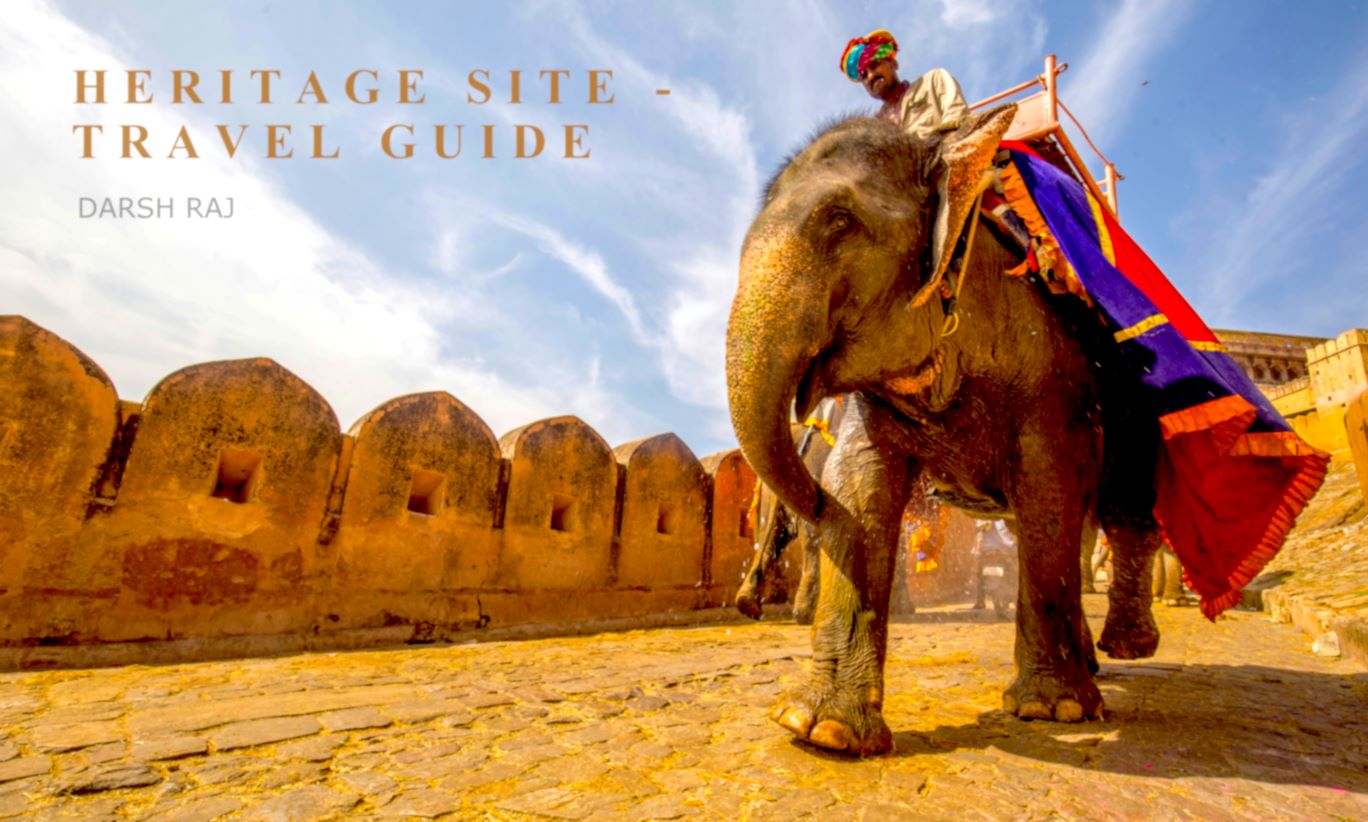
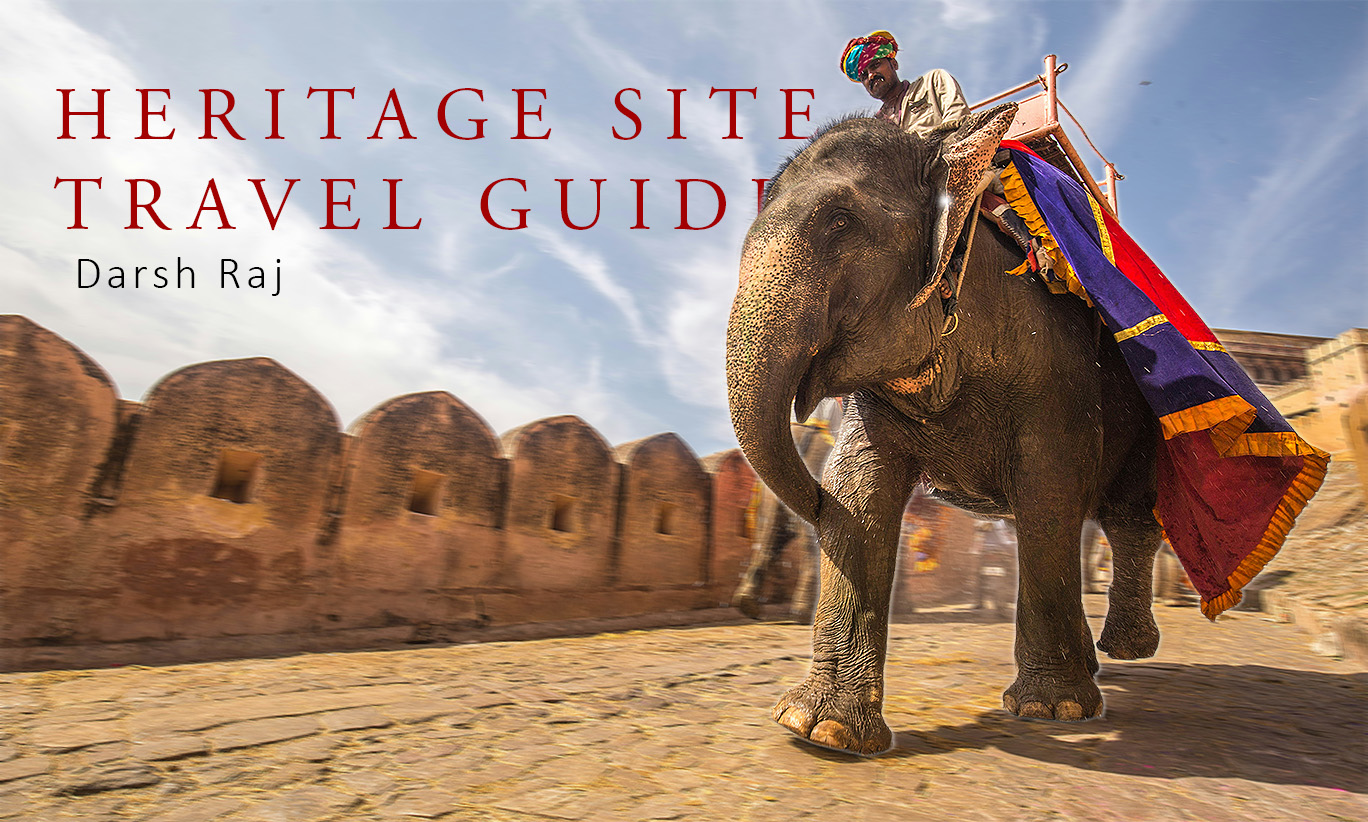
04/03/25
Edited Picture, started work on deletion program, and buttons still need work. Idk/

diff --git a/TEMP/Assets/Data.py b/TEMP/Assets/Data.py
@@ -1,22 +1,1 @@
-Data = {
-    1: ['assets/images/agra_fort.jpg', 'consolas', 'THE AGRA FORT', 'https://en.wikipedia.org/wiki/Agra_Fort', 'UTTAR PRADESH', 'AGRA', '07/02/2026', 1573, 'AGRA AIRPORT', 'https://www.aai.aero/en/node/2901', 'AGRA FORT RAILWAY', 'https://indianrailways.gov.in', 'ALL-DAY', 'THE IMPERIAL, ITC MUGHAL, COURTYARD BY MARRIOTT', 'https://www.tripadvisor.in', 10500, 'A 16th-century Mughal imperial fortress in Agra. It was the main residence of the emperors of the Mughal Dynasty until 1638.', 'Intense Crowds, Touts, Noise, Scams.'],
-    2: ['assets/images/taj_mahal.jpg', 'consolas', 'THE TAJ MAHAL', 'https://en.wikipedia.org/wiki/Taj_Mahal', 'UTTAR PRADESH', 'AGRA', '07/02/2026', 1632, 'AGRA AIRPORT', 'https://www.aai.aero', 'AGRA CANTT', 'https://indianrailways.gov.in', '6AM-7PM', 'THE OBEROI AMARVILAS, TAJ HOTEL', 'https://www.tajhotels.com', 15000, 'An ivory-white marble mausoleum on the right bank of the river Yamuna. Built by Shah Jahan for his wife Mumtaz Mahal.', 'Heavy security check, strictly no drones, crowds.'],
-    3: ['assets/images/lotus_temple.jpg', 'consolas', 'THE LOTUS TEMPLE', 'https://en.wikipedia.org/wiki/Lotus_Temple', 'DELHI', 'NEW DELHI', '07/02/2026', 1986, 'IGIA DELHI', 'https://www.newdelhiairport.in', 'KALKAJI MANDIR METRO', 'https://www.delhimetrorail.com', '9AM-5PM', 'EROS HOTEL, THE SURYAA', 'https://www.ihg.com', 4500, 'A Bahai House of Worship notable for its flowerlike shape. It has become a prominent attraction in the city.', 'Silence must be maintained, no photography inside.'],
-    4: ['assets/images/donkey.jpg', 'consolas', 'THE WILD ASS SANCTUARY', 'https://en.wikipedia.org/wiki/Indian_Wild_Ass_Sanctuary', 'GUJARAT', 'LITTLE RANN OF KUTCH', '07/02/2026', 1972, 'AHMEDABAD AIRPORT', 'https://www.aai.aero', 'DHRANGADHRA RAILWAY', 'https://indianrailways.gov.in', '6AM-6PM', 'RANN RIDERS, DESERT COURTYARD', 'https://www.rannriders.com', 8500, 'The largest wildlife sanctuary in India, home to the endangered Indian Wild Ass.', 'Extreme heat in summer, carry plenty of water.'],
-    5: ['assets/images/mtn_palace.jpg', 'consolas', 'THE MATTANCHERRY PALACE', 'https://en.wikipedia.org/wiki/Mattancherry_Palace', 'KERALA', 'KOCHI', '07/02/2026', 1545, 'COCHIN INTERNATIONAL', 'https://cial.aero', 'ERNAKULAM JUNCTION', 'https://indianrailways.gov.in', '10AM-5PM', 'GRAND HYATT, TAJ MALABAR', 'https://www.tajhotels.com', 6000, 'A Portuguese palace popularly known as the Dutch Palace, featuring Kerala murals depicting Hindu temple art.', 'Closed on Fridays, no footwear inside galleries.'],
-    6: ['assets/images/corbusier.jpg', 'consolas', 'LE CORBUSIER ARCHITECTURAL WORK', 'https://en.wikipedia.org/wiki/The_Architectural_Work_of_Le_Corbusier', 'CHANDIGARH', 'CHANDIGARH', '07/02/2026', 1950, 'CHANDIGARH AIRPORT', 'https://www.aai.aero', 'CHANDIGARH JUNCTION', 'https://indianrailways.gov.in', '9AM-5PM', 'JW MARRIOTT, TAJ CHANDIGARH', 'https://www.marriott.com', 9000, 'The Capitol Complex in Chandigarh is a UNESCO site representing the modern movement in architecture.', 'Prior permission needed for the Capitol Complex.'],
-    7: ['assets/images/himalayan_np.jpg', 'consolas', 'THE GREAT HIMALAYAN NATIONAL PARK', 'https://en.wikipedia.org/wiki/Great_Himalayan_National_Park', 'HIMACHAL PRADESH', 'KULLU', '07/02/2026', 1984, 'KULLU MANALI AIRPORT', 'https://www.aai.aero', 'JOGINDER NAGAR', 'https://indianrailways.gov.in', 'ALL-DAY', 'THE RAJU COTTAGE, FOREST GUEST HOUSE', 'https://www.himachaltourism.gov.in', 12000, 'A high altitude park with diverse flora and fauna, including the elusive Snow Leopard.', 'Steep treks, unpredictable weather, permit required.'],
-    8: ['assets/images/wstrn_g.jpg', 'consolas', 'THE WESTERN GHATS', 'https://en.wikipedia.org/wiki/Western_Ghats', 'MAHARASHTRA/KARNATAKA/KERALA', 'MULTIPLE', '07/02/2026', 2012, 'MUMBAI/BANGALORE AIRPORT', 'https://www.aai.aero', 'MULTIPLE', 'https://indianrailways.gov.in', 'ALL-DAY', 'VIVANTA BY TAJ, STERLING RESORTS', 'https://www.sterlingholidays.com', 18000, 'One of the worlds ten hottest biodiversity hotspots, older than the Himalayas.', 'Leeches during monsoon, dense forests, stay on trails.'],
-    9: ['assets/images/red_fort.jpg', 'consolas', 'THE RED FORT', 'https://en.wikipedia.org/wiki/Red_Fort', 'DELHI', 'OLD DELHI', '07/02/2026', 1639, 'IGIA DELHI', 'https://www.newdelhiairport.in', 'OLD DELHI RAILWAY', 'https://indianrailways.gov.in', '9:30AM-4:30PM', 'THE MAIDENS HOTEL, ITC MAURYA', 'https://www.oberoihotels.com', 8000, 'A historic fort that served as the main residence of Mughal Emperors for nearly 200 years.', 'Closed on Mondays, extremely crowded, light show at night.'],
-    10: ['assets/images/rock_shelter.jpg', 'consolas', 'THE ROCK SHELTERS OF BHIMBETKA', 'https://en.wikipedia.org/wiki/Rock_Shelters_of_Bhimbetka', 'MADHYA PRADESH', 'RAISEN', '07/02/2026', 2003, 'BHOPAL AIRPORT', 'https://www.aai.aero', 'BHOPAL JUNCTION', 'https://indianrailways.gov.in', '7AM-6PM', 'JEHAN NUMA PALACE, COURTYARD BY MARRIOTT', 'https://www.marriott.com', 7500, 'Archaeological site exhibiting the earliest traces of human life on the Indian subcontinent.', 'Remote area, hire a guide for historical context.'],
-    11: ['assets/images/train.jpg', 'consolas', 'THE MOUNTAIN RAILWAYS OF INDIA', 'https://en.wikipedia.org/wiki/Mountain_Railways_of_India', 'WB/TN/HP', 'MULTIPLE', '07/02/2026', 1999, 'BAGDOGRA/COIMBATORE', 'https://www.aai.aero', 'DARJEELING/OOTY/KALKA', 'https://indianrailways.gov.in', 'SCHEDULE-BASED', 'WINDAMERE HOTEL, SAVOY OOTY', 'https://www.tajhotels.com', 14000, 'Includes Darjeeling Himalayan Railway, Nilgiri Mountain Railway, and Kalka-Shimla Railway.', 'Book tickets months in advance, landslides in monsoon.'],
-    12: ['assets/images/qutb_minar.jpg', 'consolas', 'THE QUTB MINAR', 'https://en.wikipedia.org/wiki/Qutb_Minar', 'DELHI', 'MEHRAULI', '07/02/2026', 1192, 'IGIA DELHI', 'https://www.newdelhiairport.in', 'QUTUB MINAR METRO', 'https://www.delhimetrorail.com', '7AM-9PM', 'THE LODHI, HILTON GARDEN INN', 'https://www.hilton.com', 5000, 'A 73-metre tall tapering tower and a UNESCO World Heritage Site.', 'No climbing the tower, high summer heat.'],
-    13: ['assets/images/sundarbans.jpg', 'consolas', 'THE SUNDARBANS NATIONAL PARK', 'https://en.wikipedia.org/wiki/Sundarbans_National_Park', 'WEST BENGAL', '24 PARGANAS', '07/02/2026', 1987, 'KOLKATA AIRPORT', 'https://www.aai.aero', 'CANNING RAILWAY', 'https://indianrailways.gov.in', '8AM-6PM', 'SUNDARBAN TIGER CAMP', 'https://www.sundarbantigercamp.com', 16000, 'World largest mangrove forest and home to the Royal Bengal Tiger.', 'Boat travel only, watch out for crocodiles and tigers.'],
-    14: ['assets/images/hampi.jpg', 'consolas', 'THE HAMPI MONUMENTS', 'https://en.wikipedia.org/wiki/Hampi', 'KARNATAKA', 'HAMPI', '07/02/2026', 1986, 'HUBLI AIRPORT', 'https://www.aai.aero', 'HOSAPETE JUNCTION', 'https://indianrailways.gov.in', '6AM-6PM', 'EVOLVE BACK, HYATT PLACE', 'https://www.evolveback.com', 11000, 'Ruins of the Vijayanagara Empire capital, featuring stunning Dravidian temples.', 'Vast area, hire a bicycle, dress conservatively.'],
-    15: ['assets/images/mbpuram.jpg', 'consolas', 'THE MAHABALIPURAM MONUMENTS', 'https://en.wikipedia.org/wiki/Mahabalipuram', 'TAMIL NADU', 'CHENGALPATTU', '07/02/2026', 1984, 'CHENNAI INTERNATIONAL', 'https://www.aai.aero', 'CHENGALPATTU JUNCTION', 'https://indianrailways.gov.in', '6AM-6PM', 'RADISSON BLU RESORT, TAJ FISHERMANS COVE', 'https://www.tajhotels.com', 9500, 'A collection of 7th- and 8th-century religious monuments including the Shore Temple.', 'Humid coastal weather, local monkeys can be aggressive.'],
-    16: ['assets/images/sun_temple.jpg', 'consolas', 'THE SUN TEMPLE KONARK', 'https://en.wikipedia.org/wiki/Konark_Sun_Temple', 'ODISHA', 'PURI', '07/02/2026', 1984, 'BHUBANESWAR AIRPORT', 'https://www.aai.aero', 'PURI RAILWAY', 'https://indianrailways.gov.in', '6AM-8PM', 'MAYFAIR WAVES, THE CHARIOT', 'https://www.mayfairhotels.com', 8000, 'A 13th-century Sun Temple shaped like a giant chariot with carved stone wheels.', 'Intense sun, hire a government approved guide.'],
-    17: ['assets/images/ellora.jpg', 'consolas', 'THE ELLORA CAVES', 'https://en.wikipedia.org/wiki/Ellora_Caves', 'MAHARASHTRA', 'AURANGABAD', '07/02/2026', 1983, 'AURANGABAD AIRPORT', 'https://www.aai.aero', 'AURANGABAD RAILWAY', 'https://indianrailways.gov.in', '6AM-6PM', 'VIVANTA, WELCOMHOTEL RAMA INTERNATIONAL', 'https://www.itchotels.com', 9000, 'One of the largest rock-cut monastery-temple cave complexes in the world.', 'Closed on Tuesdays, lots of walking and steps.'],
-    18: ['assets/images/ajanta.jpg', 'consolas', 'THE AJANTA CAVES', 'https://en.wikipedia.org/wiki/Ajanta_Caves', 'MAHARASHTRA', 'AURANGABAD', '07/02/2026', 1983, 'AURANGABAD AIRPORT', 'https://www.aai.aero', 'JALGAON JUNCTION', 'https://indianrailways.gov.in', '9AM-5PM', 'VIVANTA, HOTEL AJANTA AMBASSADOR', 'https://www.tajhotels.com', 9000, 'Buddhist cave monuments dating from the 2nd century BCE to 480 CE.', 'Closed on Mondays, no flash photography.'],
-    19: ['assets/images/gold.jpg', 'consolas', 'THE GOLDEN TEMPLE', 'https://en.wikipedia.org/wiki/Golden_Temple', 'PUNJAB', 'AMRITSAR', '07/02/2026', 1577, 'AMRITSAR AIRPORT', 'https://www.aai.aero', 'AMRITSAR JUNCTION', 'https://indianrailways.gov.in', 'ALL-DAY', 'HYATT REGENCY, TAJ SWARNA', 'https://www.tajhotels.com', 7000, 'The preeminent spiritual site of Sikhism, also known as Sri Harmandir Sahib.', 'Cover your head, remove shoes, photography limited.'],
-    20: ['assets/images/goa.jpg', 'consolas', 'THE CHURCHES AND CONVENTS OF GOA', 'https://en.wikipedia.org/wiki/Churches_and_Convents_of_Goa', 'GOA', 'OLD GOA', '07/02/2026', 1986, 'GOA INTERNATIONAL', 'https://www.aai.aero', 'MADGAON JUNCTION', 'https://indianrailways.gov.in', '7:30AM-6:30PM', 'W GOA, TAJ EXOTICA', 'https://www.marriott.com', 13000, 'A set of religious monuments in Old Goa, the former capital of Portuguese India.', 'Dress modestly for active churches, parking can be far.']
-}
+Data = {1: ['assets/images/agra_fort.jpg', 'consolas', 'THE AGRA FORT', 'https://en.wikipedia.org/wiki/Agra_Fort', 'UTTAR PRADESH', 'AGRA', '07/02/2026', 1573, 'AGRA AIRPORT', 'https://www.aai.aero/en/node/2901', 'AGRA FORT RAILWAY', 'https://indianrailways.gov.in', 'ALL-DAY', 'THE IMPERIAL, ITC MUGHAL, COURTYARD BY MARRIOTT', 'https://www.tripadvisor.in', 10500, 'A 16th-century Mughal imperial fortress in Agra. It was the main residence of the emperors of the Mughal Dynasty until 1638.', 'Intense Crowds, Touts, Noise, Scams.'], 2: ['assets/images/taj_mahal.jpg', 'consolas', 'THE TAJ MAHAL', 'https://en.wikipedia.org/wiki/Taj_Mahal', 'UTTAR PRADESH', 'AGRA', '07/02/2026', 1632, 'AGRA AIRPORT', 'https://www.aai.aero', 'AGRA CANTT', 'https://indianrailways.gov.in', '6AM-7PM', 'THE OBEROI AMARVILAS, TAJ HOTEL', 'https://www.tajhotels.com', 15000, 'An ivory-white marble mausoleum on the right bank of the river Yamuna. Built by Shah Jahan for his wife Mumtaz Mahal.', 'Heavy security check, strictly no drones, crowds.'], 3: ['assets/images/lotus_temple.jpg', 'consolas', 'THE LOTUS TEMPLE', 'https://en.wikipedia.org/wiki/Lotus_Temple', 'DELHI', 'NEW DELHI', '07/02/2026', 1986, 'IGIA DELHI', 'https://www.newdelhiairport.in', 'KALKAJI MANDIR METRO', 'https://www.delhimetrorail.com', '9AM-5PM', 'EROS HOTEL, THE SURYAA', 'https://www.ihg.com', 4500, 'A Bahai House of Worship notable for its flowerlike shape. It has become a prominent attraction in the city.', 'Silence must be maintained, no photography inside.'], 4: ['assets/images/donkey.jpg', 'consolas', 'THE WILD ASS SANCTUARY', 'https://en.wikipedia.org/wiki/Indian_Wild_Ass_Sanctuary', 'GUJARAT', 'LITTLE RANN OF KUTCH', '07/02/2026', 1972, 'AHMEDABAD AIRPORT', 'https://www.aai.aero', 'DHRANGADHRA RAILWAY', 'https://indianrailways.gov.in', '6AM-6PM', 'RANN RIDERS, DESERT COURTYARD', 'https://www.rannriders.com', 8500, 'The largest wildlife sanctuary in India, home to the endangered Indian Wild Ass.', 'Extreme heat in summer, carry plenty of water.'], 5: ['assets/images/mtn_palace.jpg', 'consolas', 'THE MATTANCHERRY PALACE', 'https://en.wikipedia.org/wiki/Mattancherry_Palace', 'KERALA', 'KOCHI', '07/02/2026', 1545, 'COCHIN INTERNATIONAL', 'https://cial.aero', 'ERNAKULAM JUNCTION', 'https://indianrailways.gov.in', '10AM-5PM', 'GRAND HYATT, TAJ MALABAR', 'https://www.tajhotels.com', 6000, 'A Portuguese palace popularly known as the Dutch Palace, featuring Kerala murals depicting Hindu temple art.', 'Closed on Fridays, no footwear inside galleries.'], 6: ['assets/images/corbusier.jpg', 'consolas', 'LE CORBUSIER ARCHITECTURAL WORK', 'https://en.wikipedia.org/wiki/The_Architectural_Work_of_Le_Corbusier', 'CHANDIGARH', 'CHANDIGARH', '07/02/2026', 1950, 'CHANDIGARH AIRPORT', 'https://www.aai.aero', 'CHANDIGARH JUNCTION', 'https://indianrailways.gov.in', '9AM-5PM', 'JW MARRIOTT, TAJ CHANDIGARH', 'https://www.marriott.com', 9000, 'The Capitol Complex in Chandigarh is a UNESCO site representing the modern movement in architecture.', 'Prior permission needed for the Capitol Complex.'], 7: ['assets/images/himalayan_np.jpg', 'consolas', 'THE GREAT HIMALAYAN NATIONAL PARK', 'https://en.wikipedia.org/wiki/Great_Himalayan_National_Park', 'HIMACHAL PRADESH', 'KULLU', '07/02/2026', 1984, 'KULLU MANALI AIRPORT', 'https://www.aai.aero', 'JOGINDER NAGAR', 'https://indianrailways.gov.in', 'ALL-DAY', 'THE RAJU COTTAGE, FOREST GUEST HOUSE', 'https://www.himachaltourism.gov.in', 12000, 'A high altitude park with diverse flora and fauna, including the elusive Snow Leopard.', 'Steep treks, unpredictable weather, permit required.'], 8: ['assets/images/wstrn_g.jpg', 'consolas', 'THE WESTERN GHATS', 'https://en.wikipedia.org/wiki/Western_Ghats', 'MAHARASHTRA/KARNATAKA/KERALA', 'MULTIPLE', '07/02/2026', 2012, 'MUMBAI/BANGALORE AIRPORT', 'https://www.aai.aero', 'MULTIPLE', 'https://indianrailways.gov.in', 'ALL-DAY', 'VIVANTA BY TAJ, STERLING RESORTS', 'https://www.sterlingholidays.com', 18000, 'One of the worlds ten hottest biodiversity hotspots, older than the Himalayas.', 'Leeches during monsoon, dense forests, stay on trails.'], 9: ['assets/images/red_fort.jpg', 'consolas', 'THE RED FORT', 'https://en.wikipedia.org/wiki/Red_Fort', 'DELHI', 'OLD DELHI', '07/02/2026', 1639, 'IGIA DELHI', 'https://www.newdelhiairport.in', 'OLD DELHI RAILWAY', 'https://indianrailways.gov.in', '9:30AM-4:30PM', 'THE MAIDENS HOTEL, ITC MAURYA', 'https://www.oberoihotels.com', 8000, 'A historic fort that served as the main residence of Mughal Emperors for nearly 200 years.', 'Closed on Mondays, extremely crowded, light show at night.'], 10: ['assets/images/rock_shelter.jpg', 'consolas', 'THE ROCK SHELTERS OF BHIMBETKA', 'https://en.wikipedia.org/wiki/Rock_Shelters_of_Bhimbetka', 'MADHYA PRADESH', 'RAISEN', '07/02/2026', 2003, 'BHOPAL AIRPORT', 'https://www.aai.aero', 'BHOPAL JUNCTION', 'https://indianrailways.gov.in', '7AM-6PM', 'JEHAN NUMA PALACE, COURTYARD BY MARRIOTT', 'https://www.marriott.com', 7500, 'Archaeological site exhibiting the earliest traces of human life on the Indian subcontinent.', 'Remote area, hire a guide for historical context.'], 11: ['assets/images/train.jpg', 'consolas', 'THE MOUNTAIN RAILWAYS OF INDIA', 'https://en.wikipedia.org/wiki/Mountain_Railways_of_India', 'WB/TN/HP', 'MULTIPLE', '07/02/2026', 1999, 'BAGDOGRA/COIMBATORE', 'https://www.aai.aero', 'DARJEELING/OOTY/KALKA', 'https://indianrailways.gov.in', 'SCHEDULE-BASED', 'WINDAMERE HOTEL, SAVOY OOTY', 'https://www.tajhotels.com', 14000, 'Includes Darjeeling Himalayan Railway, Nilgiri Mountain Railway, and Kalka-Shimla Railway.', 'Book tickets months in advance, landslides in monsoon.'], 12: ['assets/images/qutb_minar.jpg', 'consolas', 'THE QUTB MINAR', 'https://en.wikipedia.org/wiki/Qutb_Minar', 'DELHI', 'MEHRAULI', '07/02/2026', 1192, 'IGIA DELHI', 'https://www.newdelhiairport.in', 'QUTUB MINAR METRO', 'https://www.delhimetrorail.com', '7AM-9PM', 'THE LODHI, HILTON GARDEN INN', 'https://www.hilton.com', 5000, 'A 73-metre tall tapering tower and a UNESCO World Heritage Site.', 'No climbing the tower, high summer heat.'], 13: ['assets/images/sundarbans.jpg', 'consolas', 'THE SUNDARBANS NATIONAL PARK', 'https://en.wikipedia.org/wiki/Sundarbans_National_Park', 'WEST BENGAL', '24 PARGANAS', '07/02/2026', 1987, 'KOLKATA AIRPORT', 'https://www.aai.aero', 'CANNING RAILWAY', 'https://indianrailways.gov.in', '8AM-6PM', 'SUNDARBAN TIGER CAMP', 'https://www.sundarbantigercamp.com', 16000, 'World largest mangrove forest and home to the Royal Bengal Tiger.', 'Boat travel only, watch out for crocodiles and tigers.'], 14: ['assets/images/hampi.jpg', 'consolas', 'THE HAMPI MONUMENTS', 'https://en.wikipedia.org/wiki/Hampi', 'KARNATAKA', 'HAMPI', '07/02/2026', 1986, 'HUBLI AIRPORT', 'https://www.aai.aero', 'HOSAPETE JUNCTION', 'https://indianrailways.gov.in', '6AM-6PM', 'EVOLVE BACK, HYATT PLACE', 'https://www.evolveback.com', 11000, 'Ruins of the Vijayanagara Empire capital, featuring stunning Dravidian temples.', 'Vast area, hire a bicycle, dress conservatively.'], 15: ['assets/images/mbpuram.jpg', 'consolas', 'THE MAHABALIPURAM MONUMENTS', 'https://en.wikipedia.org/wiki/Mahabalipuram', 'TAMIL NADU', 'CHENGALPATTU', '07/02/2026', 1984, 'CHENNAI INTERNATIONAL', 'https://www.aai.aero', 'CHENGALPATTU JUNCTION', 'https://indianrailways.gov.in', '6AM-6PM', 'RADISSON BLU RESORT, TAJ FISHERMANS COVE', 'https://www.tajhotels.com', 9500, 'A collection of 7th- and 8th-century religious monuments including the Shore Temple.', 'Humid coastal weather, local monkeys can be aggressive.'], 16: ['assets/images/sun_temple.jpg', 'consolas', 'THE SUN TEMPLE KONARK', 'https://en.wikipedia.org/wiki/Konark_Sun_Temple', 'ODISHA', 'PURI', '07/02/2026', 1984, 'BHUBANESWAR AIRPORT', 'https://www.aai.aero', 'PURI RAILWAY', 'https://indianrailways.gov.in', '6AM-8PM', 'MAYFAIR WAVES, THE CHARIOT', 'https://www.mayfairhotels.com', 8000, 'A 13th-century Sun Temple shaped like a giant chariot with carved stone wheels.', 'Intense sun, hire a government approved guide.'], 17: ['assets/images/ellora.jpg', 'consolas', 'THE ELLORA CAVES', 'https://en.wikipedia.org/wiki/Ellora_Caves', 'MAHARASHTRA', 'AURANGABAD', '07/02/2026', 1983, 'AURANGABAD AIRPORT', 'https://www.aai.aero', 'AURANGABAD RAILWAY', 'https://indianrailways.gov.in', '6AM-6PM', 'VIVANTA, WELCOMHOTEL RAMA INTERNATIONAL', 'https://www.itchotels.com', 9000, 'One of the largest rock-cut monastery-temple cave complexes in the world.', 'Closed on Tuesdays, lots of walking and steps.'], 18: ['assets/images/ajanta.jpg', 'consolas', 'THE AJANTA CAVES', 'https://en.wikipedia.org/wiki/Ajanta_Caves', 'MAHARASHTRA', 'AURANGABAD', '07/02/2026', 1983, 'AURANGABAD AIRPORT', 'https://www.aai.aero', 'JALGAON JUNCTION', 'https://indianrailways.gov.in', '9AM-5PM', 'VIVANTA, HOTEL AJANTA AMBASSADOR', 'https://www.tajhotels.com', 9000, 'Buddhist cave monuments dating from the 2nd century BCE to 480 CE.', 'Closed on Mondays, no flash photography.'], 19: ['assets/images/gold.jpg', 'consolas', 'THE GOLDEN TEMPLE', 'https://en.wikipedia.org/wiki/Golden_Temple', 'PUNJAB', 'AMRITSAR', '07/02/2026', 1577, 'AMRITSAR AIRPORT', 'https://www.aai.aero', 'AMRITSAR JUNCTION', 'https://indianrailways.gov.in', 'ALL-DAY', 'HYATT REGENCY, TAJ SWARNA', 'https://www.tajhotels.com', 7000, 'The preeminent spiritual site of Sikhism, also known as Sri Harmandir Sahib.', 'Cover your head, remove shoes, photography limited.'], 20: ['assets/images/goa.jpg', 'consolas', 'THE CHURCHES AND CONVENTS OF GOA', 'https://en.wikipedia.org/wiki/Churches_and_Convents_of_Goa', 'GOA', 'OLD GOA', '07/02/2026', 1986, 'GOA INTERNATIONAL', 'https://www.aai.aero', 'MADGAON JUNCTION', 'https://indianrailways.gov.in', '7:30AM-6:30PM', 'W GOA, TAJ EXOTICA', 'https://www.marriott.com', 13000, 'A set of religious monuments in Old Goa, the former capital of Portuguese India.', 'Dress modestly for active churches, parking can be far.']}

diff --git a/TEMP/home.py b/TEMP/home.py
@@ -21,34 +21,32 @@ def main():
         canvas.pack(fill="both", expand=True)
         canvas.create_image(0, 0, image=bg_photo, anchor="nw")
     except Exception as exception1:
-        root.geometry("1080x1080")
+        root.geometry("1368x822")
         canvas = tk.Canvas(root, bg="#2c3e50")
         canvas.pack(fill="both", expand=True)
     button_style = {
-        "font": ("Times New Roman", 14),
-        "bg": "#ffffff",
-        "fg": "#333333",
-        "activebackground": "#eeeeee",
-        "width": 15,
-        "pady": 10,
+        "font": ("Lucida Console", 10),
+        "width": 10,
+        "pady": 15,
     }
-    menu_frame = tk.Frame(root, bg="")
+    frame = tk.Frame(root, bg="")
+    frame.pack(side="top", fill="both", expand=True, padx=10, pady=10)
     buttons = [
         ("Entry", "entry.py"),
-        ("Deletion", "delete.py"),
+        ("Deletion", "deletion.py"),
         ("List", "table.py"),
         ("Search", "search.py"),
         ("Random", "random.py")
     ]
     for text, file in buttons:
         btn = tk.Button(
-            menu_frame, 
+            frame, 
             text=text, 
             command=lambda f=file: open_file(f),
             **button_style
         )
-        btn.pack(pady=10)
-    canvas.create_window(img_width//2, img_height//2, window=menu_frame)
+        btn.pack(pady=0)
+    canvas.create_window(img_width//2, img_height//2, window=frame)
     root.mainloop()
 if __name__ == "__main__":
     main()

diff --git a/TEMP/deletion.py b/TEMP/deletion.py
@@ -1,0 +1,21 @@
+import os
+Folder = "Assets"
+File = os.path.join(Folder, "Data.py")
+Data = {}
+try:
+    from Assets.Data import Data as olddata
+    Data = olddata
+except (ImportError, SyntaxError):
+        print("ERROR: THE DATA PYTHON FILE WAS MISSING FROM ITS ORIGINAL FOLDER, THIS FILE WON'T WORK WITHOUT IT")
+Index = len(Data)
+nDel = int(input("Input the Serial No. of the entry you want to delete - \n (Index and other info can be found using search) \t: "))
+VerQ = input(print("Is", Data[nDel][2],"the entry to delete?(Y/N)\t: ")).upper()
+if VerQ == 'Y':
+    Data.pop(nDel)
+    for x in range(nDel, len(Data)+1):
+        Data[x] = Data[x+1]
+print(Data)
+        
+        
+#with open(File, "w") as f:
+    #f.write(f"Data = {repr(Data)}")

diff --git a/TEMP/ENTRY.py b/TEMP/ENTRY.py
@@ -7,7 +7,6 @@ try:
     Data = olddata
 except (ImportError, SyntaxError):
         Data = {}
-
 Index = len(Data)
 nEntry = int(input("Input number of new Entries: "))
 for x in range(nEntry):
